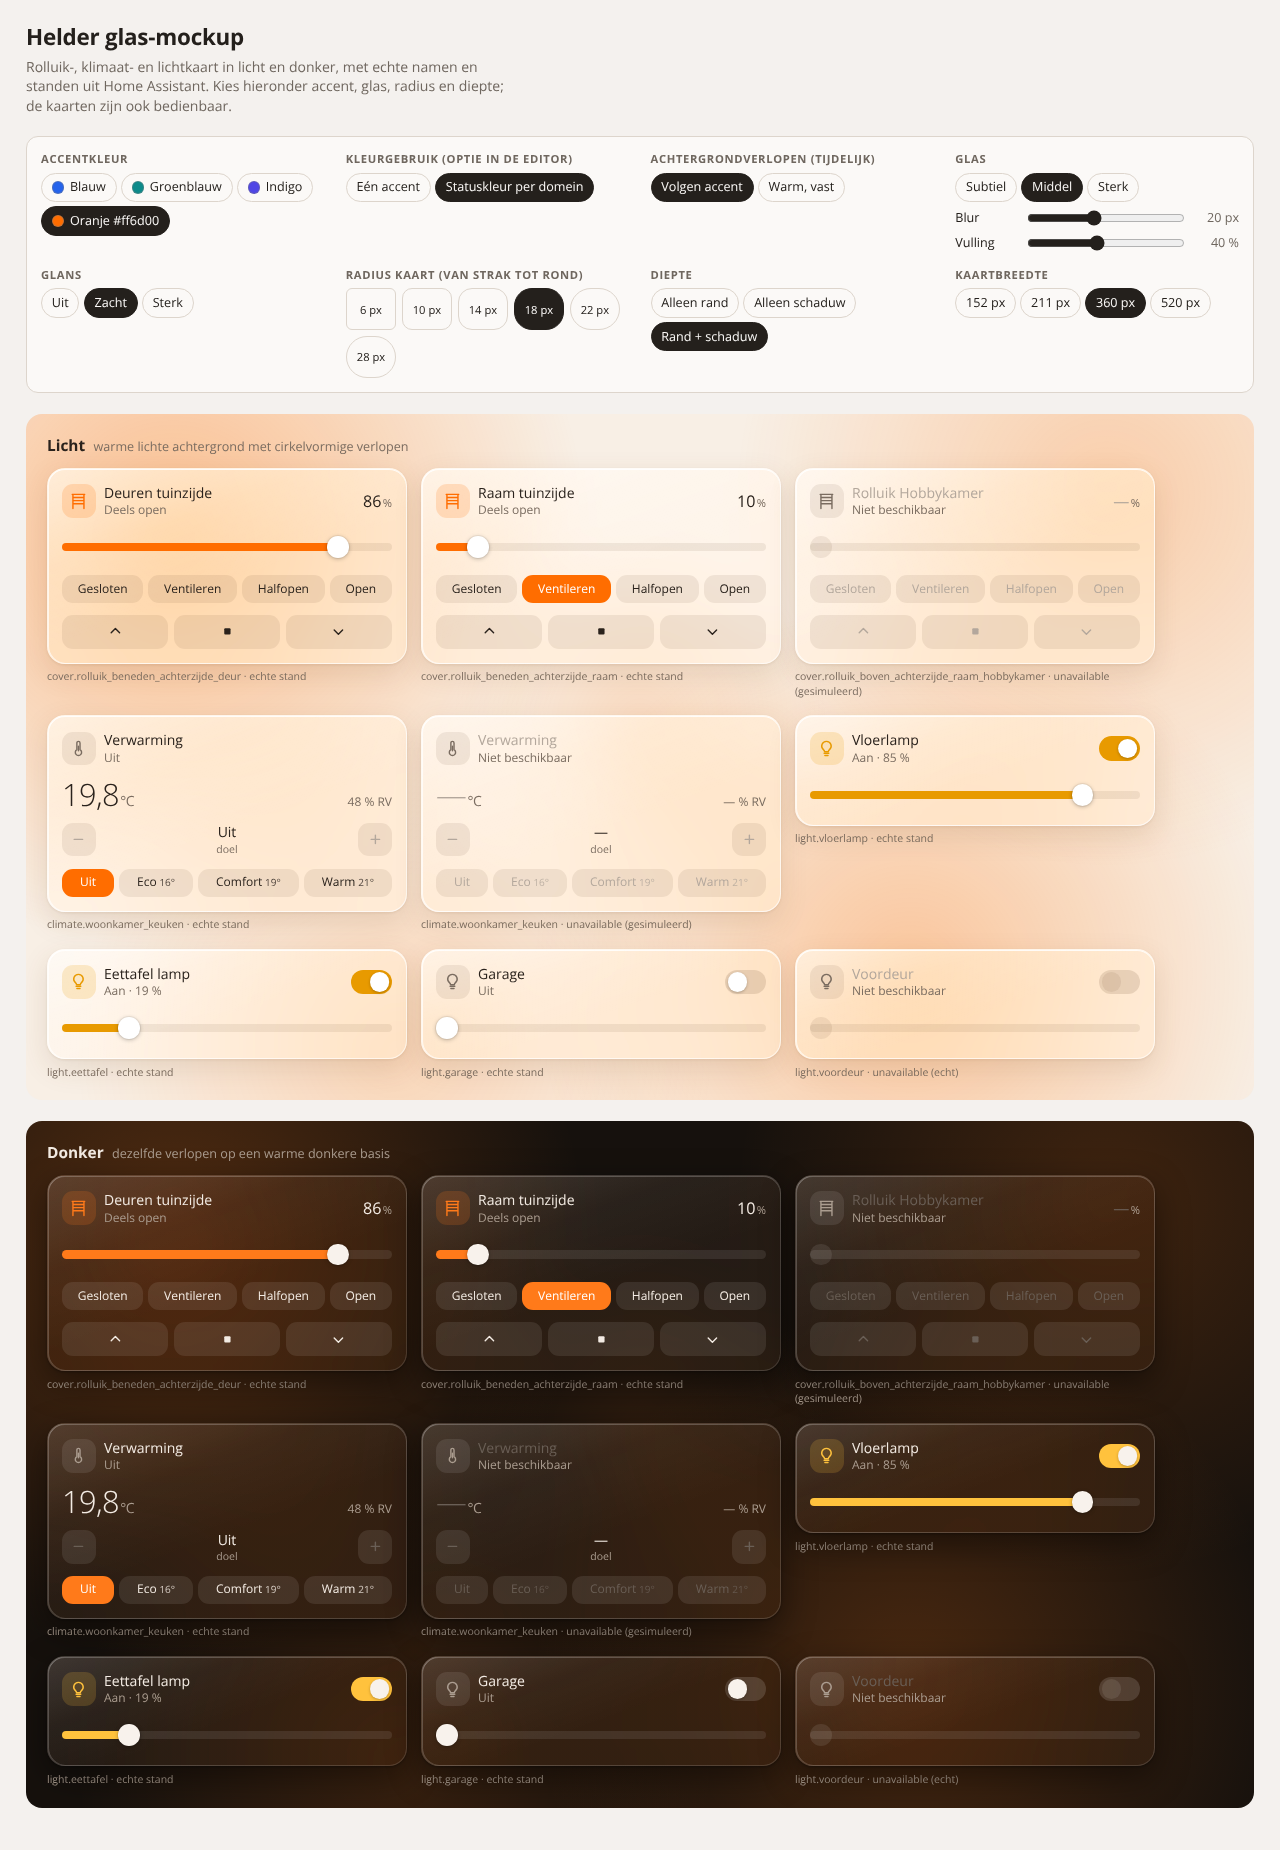
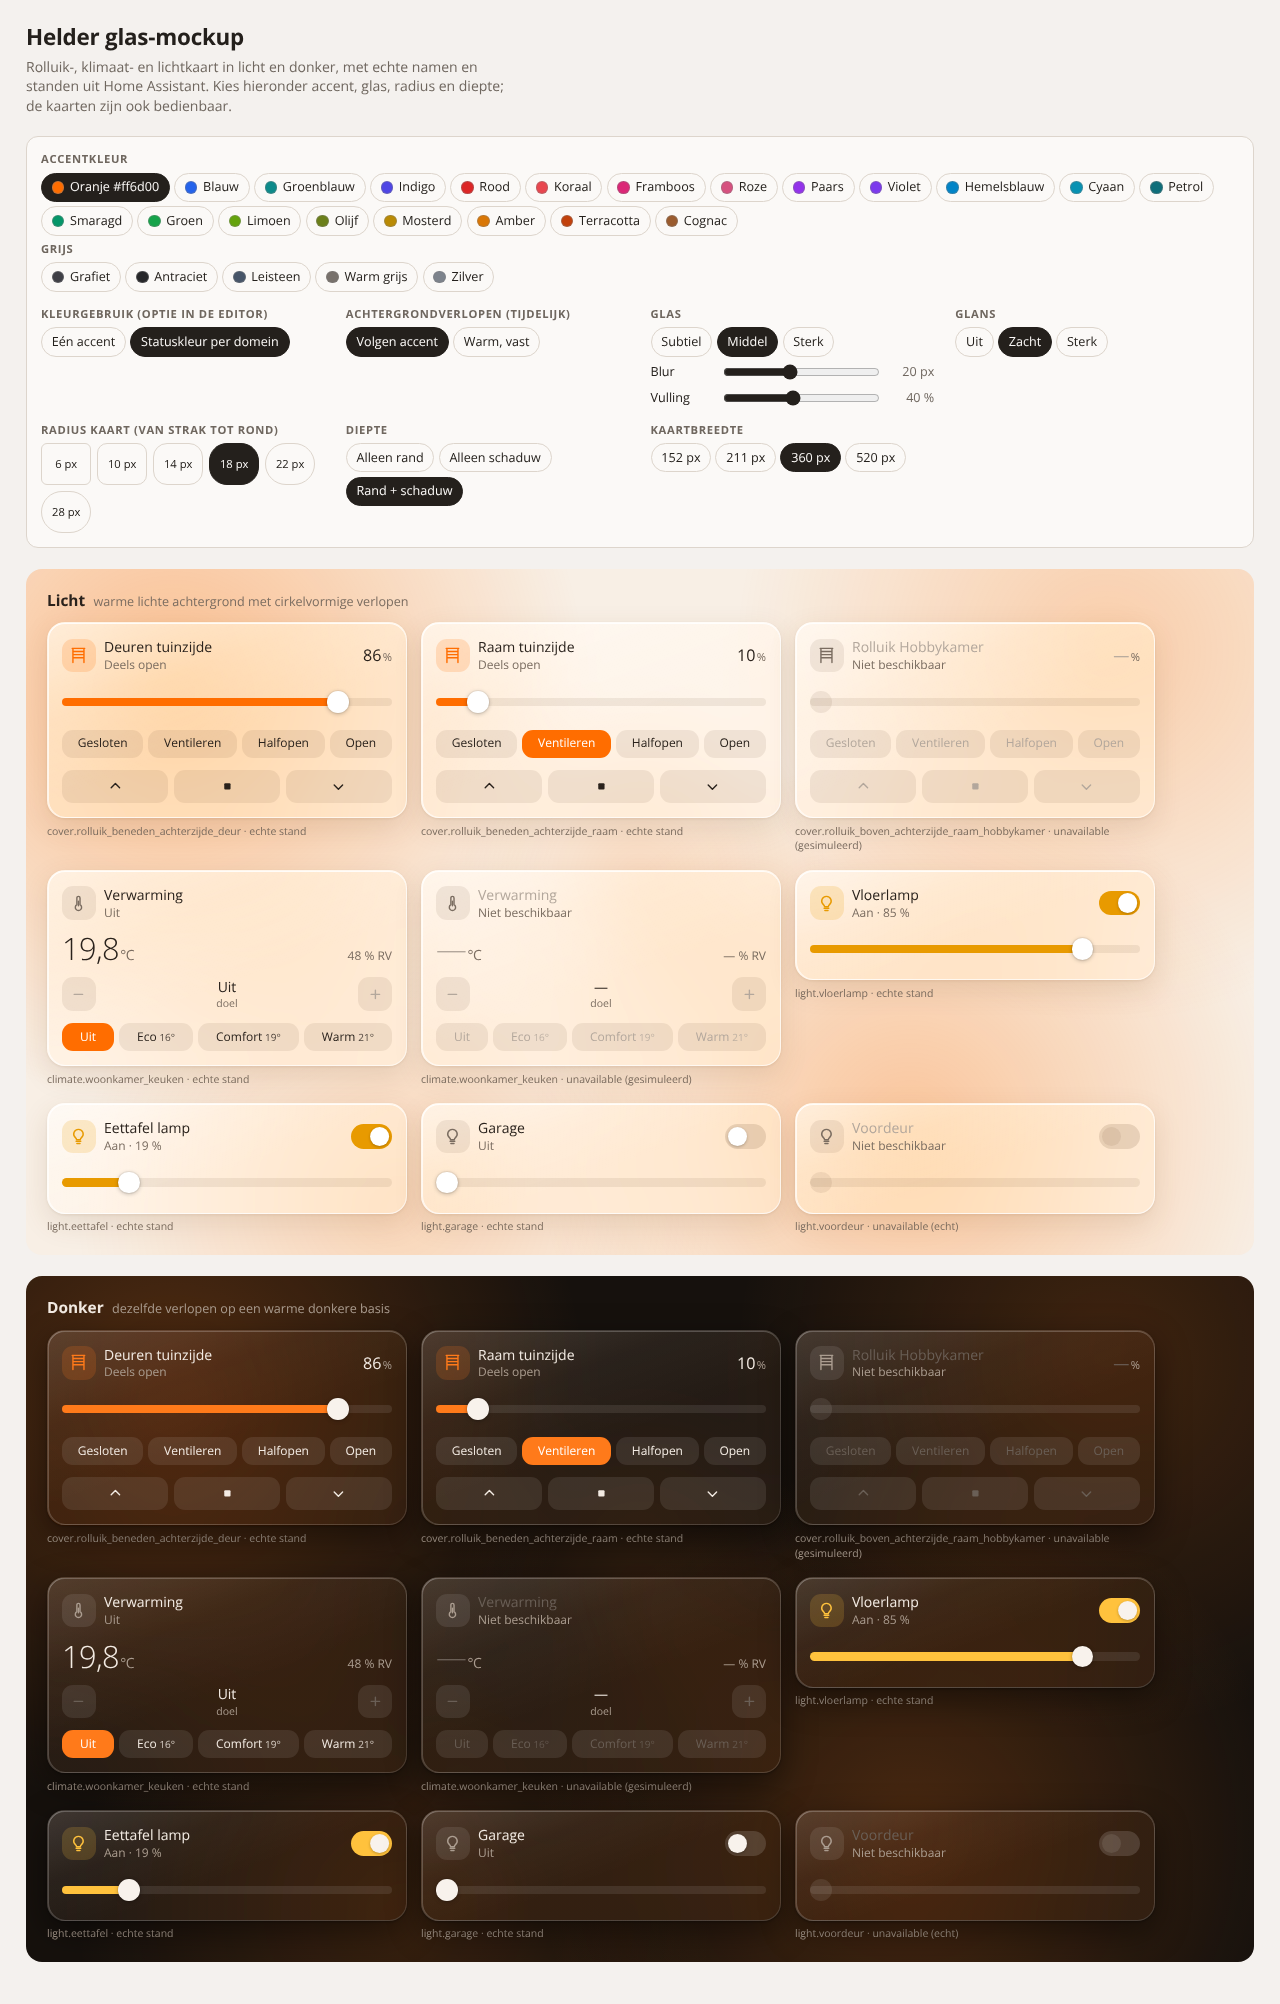
mockup: offer 21 accent colours and 5 greys, set from one list
Claude-Session: https://claude.ai/code/session_0188TZibxehgLpvZx4MTqWFe

diff --git a/mockup/glass.html b/mockup/glass.html
@@ -152,15 +152,7 @@ header p { margin: .3rem 0 0; color: var(--page-muted); max-width: 60ch; }
   --helder-color-light: #ffc23d;
   --helder-color-heat: #ff8a3d;
 }
-/* accentkandidaten, per modus */
-[data-accent="blue"]   .stage[data-mode="light"] { --helder-color-accent: #2563eb; }
-[data-accent="blue"]   .stage[data-mode="dark"]  { --helder-color-accent: #5b8cff; }
-[data-accent="teal"]   .stage[data-mode="light"] { --helder-color-accent: #0d8a8a; }
-[data-accent="teal"]   .stage[data-mode="dark"]  { --helder-color-accent: #2cc4c0; }
-[data-accent="indigo"] .stage[data-mode="light"] { --helder-color-accent: #4f46e5; }
-[data-accent="indigo"] .stage[data-mode="dark"]  { --helder-color-accent: #8f88ff; }
-[data-accent="orange"] .stage[data-mode="light"] { --helder-color-accent: #ff6d00; }
-[data-accent="orange"] .stage[data-mode="dark"]  { --helder-color-accent: #ff7a1a; }
+/* accentkleur: per modus gezet vanuit het paneel (zie ACCENTS in het script) */
 /* tijdelijk: achtergrondverlopen volgen de accentkleur */
 [data-bg="accent"] .stage[data-mode="light"] {
   --helder-bg-blob-1: color-mix(in srgb, var(--helder-color-accent) 38%, transparent);
@@ -316,14 +308,11 @@ figcaption b { font-weight: 400; }
   </header>
 
   <section class="panel" aria-label="Instellingen">
-    <div class="ctl">
+    <div class="ctl" style="grid-column: 1 / -1">
       <span class="lbl">Accentkleur</span>
-      <div class="seg" data-set="accent">
-        <button data-v="blue"><i class="sw" style="background:#2563eb"></i>Blauw</button>
-        <button data-v="teal"><i class="sw" style="background:#0d8a8a"></i>Groenblauw</button>
-        <button data-v="indigo"><i class="sw" style="background:#4f46e5"></i>Indigo</button>
-        <button data-v="orange"><i class="sw" style="background:#ff6d00"></i>Oranje #ff6d00</button>
-      </div>
+      <div class="seg" data-set="accent" data-group="color"></div>
+      <span class="lbl">Grijs</span>
+      <div class="seg" data-set="accent" data-group="grey"></div>
     </div>
     <div class="ctl">
       <span class="lbl">Kleurgebruik (optie in de editor)</span>
@@ -516,6 +505,41 @@ figcaption b { font-weight: 400; }
     });
   });
 
+  // Accentkleuren: [id, naam, licht, donker, groep]
+  const ACCENTS = [
+    ['orange', 'Oranje #ff6d00', '#ff6d00', '#ff7a1a', 'color'],
+    ['blue', 'Blauw', '#2563eb', '#5b8cff', 'color'],
+    ['teal', 'Groenblauw', '#0d8a8a', '#2cc4c0', 'color'],
+    ['indigo', 'Indigo', '#4f46e5', '#8f88ff', 'color'],
+    ['red', 'Rood', '#dc2626', '#f87171', 'color'],
+    ['coral', 'Koraal', '#e8474f', '#ff7a7f', 'color'],
+    ['raspberry', 'Framboos', '#db2777', '#f472b6', 'color'],
+    ['pink', 'Roze', '#d6517f', '#f59ab8', 'color'],
+    ['purple', 'Paars', '#9333ea', '#c084fc', 'color'],
+    ['violet', 'Violet', '#7c3aed', '#a78bfa', 'color'],
+    ['sky', 'Hemelsblauw', '#0284c7', '#38bdf8', 'color'],
+    ['cyan', 'Cyaan', '#0891b2', '#22d3ee', 'color'],
+    ['petrol', 'Petrol', '#0f6e7a', '#3fb0bd', 'color'],
+    ['emerald', 'Smaragd', '#059669', '#34d399', 'color'],
+    ['green', 'Groen', '#16a34a', '#4ade80', 'color'],
+    ['lime', 'Limoen', '#65a30d', '#a3e635', 'color'],
+    ['olive', 'Olijf', '#6b7f1a', '#a3b84a', 'color'],
+    ['mustard', 'Mosterd', '#b98a05', '#facc15', 'color'],
+    ['amber', 'Amber', '#d97706', '#fbbf24', 'color'],
+    ['terracotta', 'Terracotta', '#c2410c', '#f0835a', 'color'],
+    ['cognac', 'Cognac', '#9a5b2e', '#d0905a', 'color'],
+    ['graphite', 'Grafiet', '#3f3f46', '#d4d4d8', 'grey'],
+    ['anthracite', 'Antraciet', '#27272a', '#e4e4e7', 'grey'],
+    ['slate', 'Leisteen', '#475569', '#a8b6c9', 'grey'],
+    ['warmgrey', 'Warm grijs', '#78716c', '#c4bcb4', 'grey'],
+    ['silver', 'Zilver', '#7d838c', '#c9ced6', 'grey']
+  ];
+  const lum = hex => { const c = [1, 3, 5].map(i => parseInt(hex.slice(i, i + 2), 16) / 255).map(v => v <= .03928 ? v / 12.92 : ((v + .055) / 1.055) ** 2.4); return .2126 * c[0] + .7152 * c[1] + .0722 * c[2]; };
+  const onAccent = hex => lum(hex) > .4 ? '#1c1814' : '#ffffff';
+  document.querySelectorAll('[data-set="accent"]').forEach(g => {
+    g.innerHTML = ACCENTS.filter(a => a[4] === g.dataset.group).map(([id, n, l]) => `<button data-v="${id}"><i class="sw" style="background:${l}"></i>${n}</button>`).join('');
+  });
+
   // ---------- Bedieningspaneel ----------
   const glassPresets = { subtle: [12, 55], medium: [20, 40], strong: [32, 25] };
   const radii = [6, 10, 14, 18, 22, 28];
@@ -530,6 +554,10 @@ figcaption b { font-weight: 400; }
     stages.forEach(s => {
       s.el.style.setProperty('--glass-blur', st.blur + 'px');
       s.el.style.setProperty('--glass-alpha', st.fill / 100);
+      const ac = ACCENTS.find(a => a[0] === st.accent) || ACCENTS[0];
+      const hex = s.el.dataset.mode === 'dark' ? ac[3] : ac[2];
+      s.el.style.setProperty('--helder-color-accent', hex);
+      s.el.style.setProperty('--helder-color-on-accent', onAccent(hex));
       s.el.style.setProperty('--r', st.radius + 'px');
       s.el.style.setProperty('--gloss', st.gloss);
       s.el.style.setProperty('--card-w', st.width + 'px');
